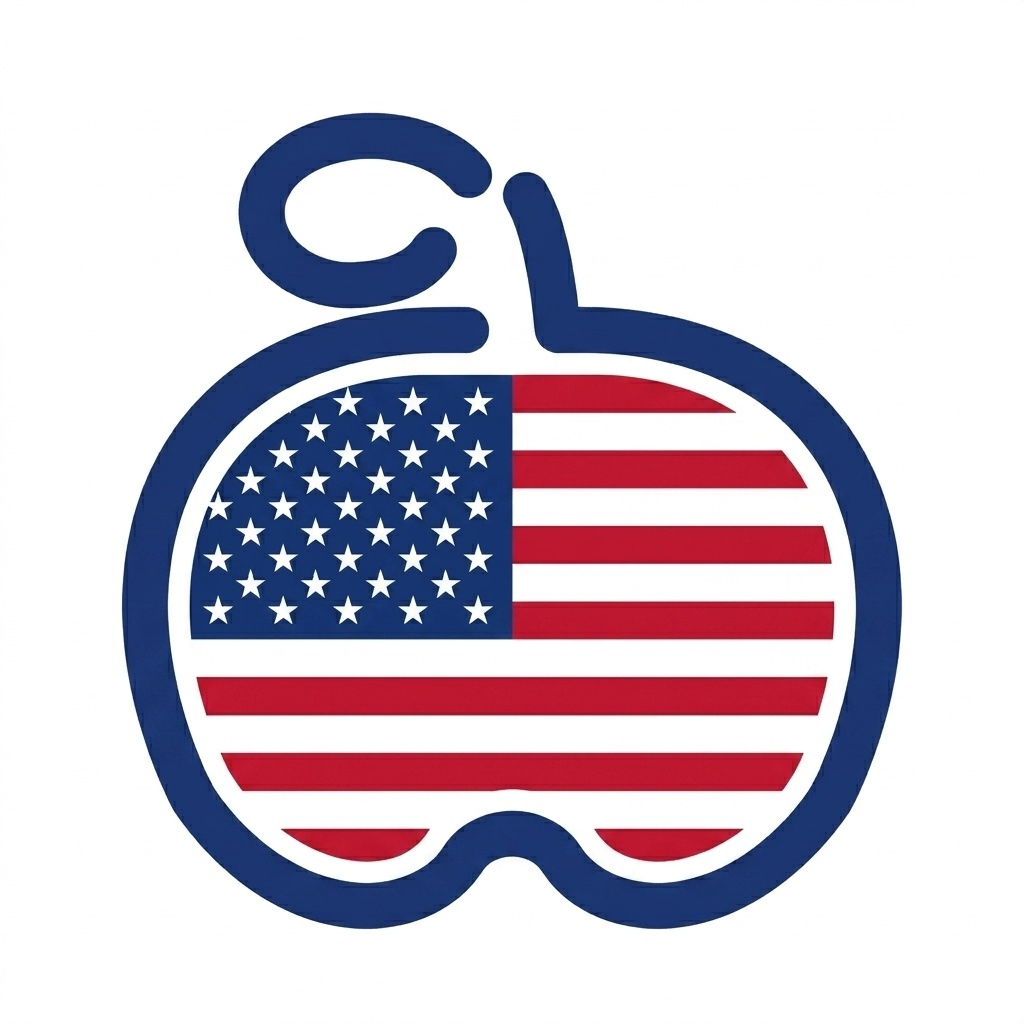
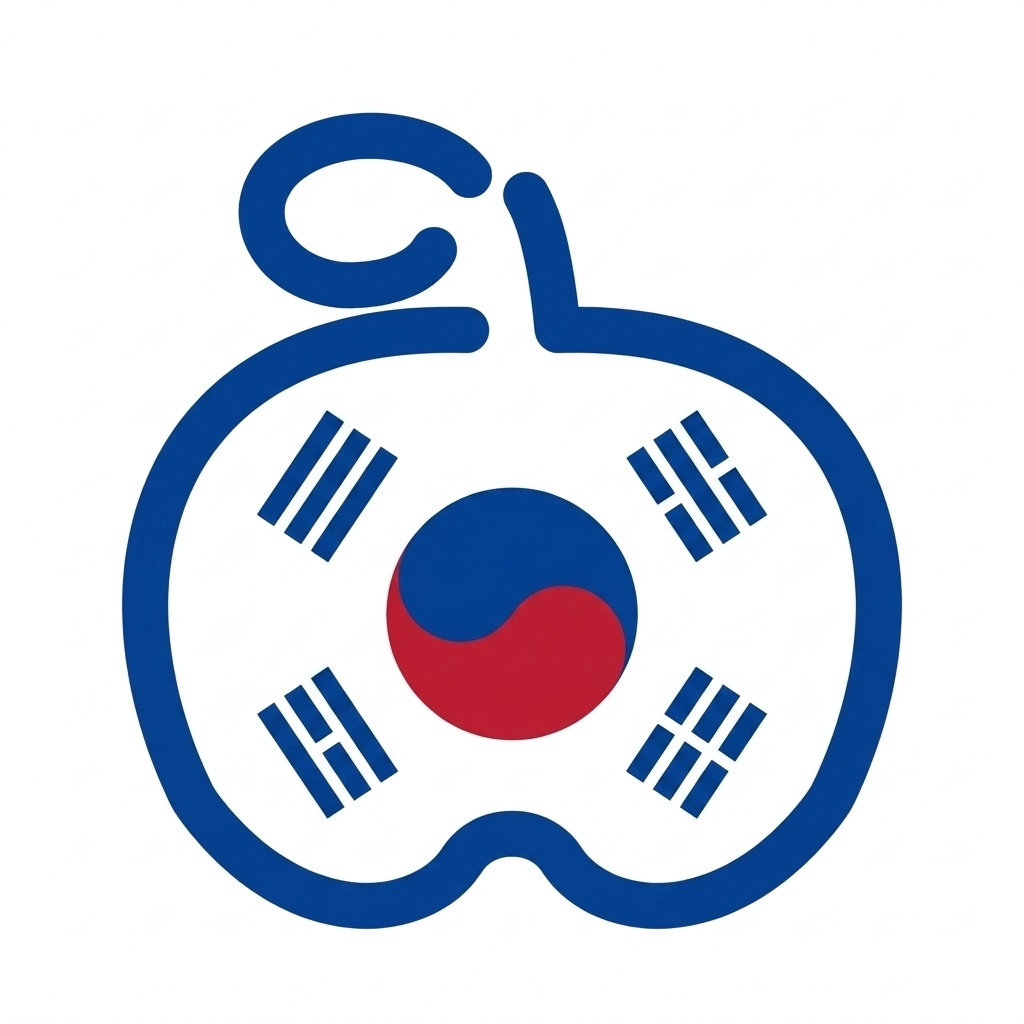
taelingoアイコン退行を修正
同じくコミットc4b832dで、taelingoのアイコンもchiilingoの星条旗に
誤って置き換わっていた退行を修正。

- taelingo-icon-1024.png / -512.pngを、git show e3ee287:taelingo.html
  から取得できるオリジナルの太極旗アイコン（md5
  451e5fb5f2f620b960e02eaec651cf60、履歴を通じて一度も破損していない
  完全なバイト列）に復元（PNG形式に変換して保存、絵柄は無変更）
- manifest.json（taelingo.manifest.json）はファイル名を変更していない
  ため自動的に新アイコンを参照する。name/short_nameは元々
  "taelingo"のままで、chiilingoとの混同はなかったため変更不要
- sw-taelingo.jsのキャッシュ名をv2→v3に更新し、既存ユーザーにも
  新アイコンが再配信されるようにした

Changed region(s): [[0.0938, 0.0938, 0.9062, 0.9062]]

diff --git a/sw-taelingo.js b/sw-taelingo.js
@@ -1,6 +1,7 @@
 // taelingo専用 Service Worker — Stale-While-Revalidate
 // v2: 共通コア分離（lingo-core.js / lingo.css）に伴い、コアもキャッシュ対象に追加
-const CACHE = 'taelingo-v2';
+// v3: アイコン退行修正（星条旗→韓国国旗）に伴い、既存ユーザーへの再配信のためキャッシュ名を更新
+const CACHE = 'taelingo-v3';
 const ASSETS = ['./taelingo.html', './lingo-core.js', './lingo.css'];
 
 // インストール: 本体とコアをプリキャッシュ（失敗しても SW 自体は継続）
